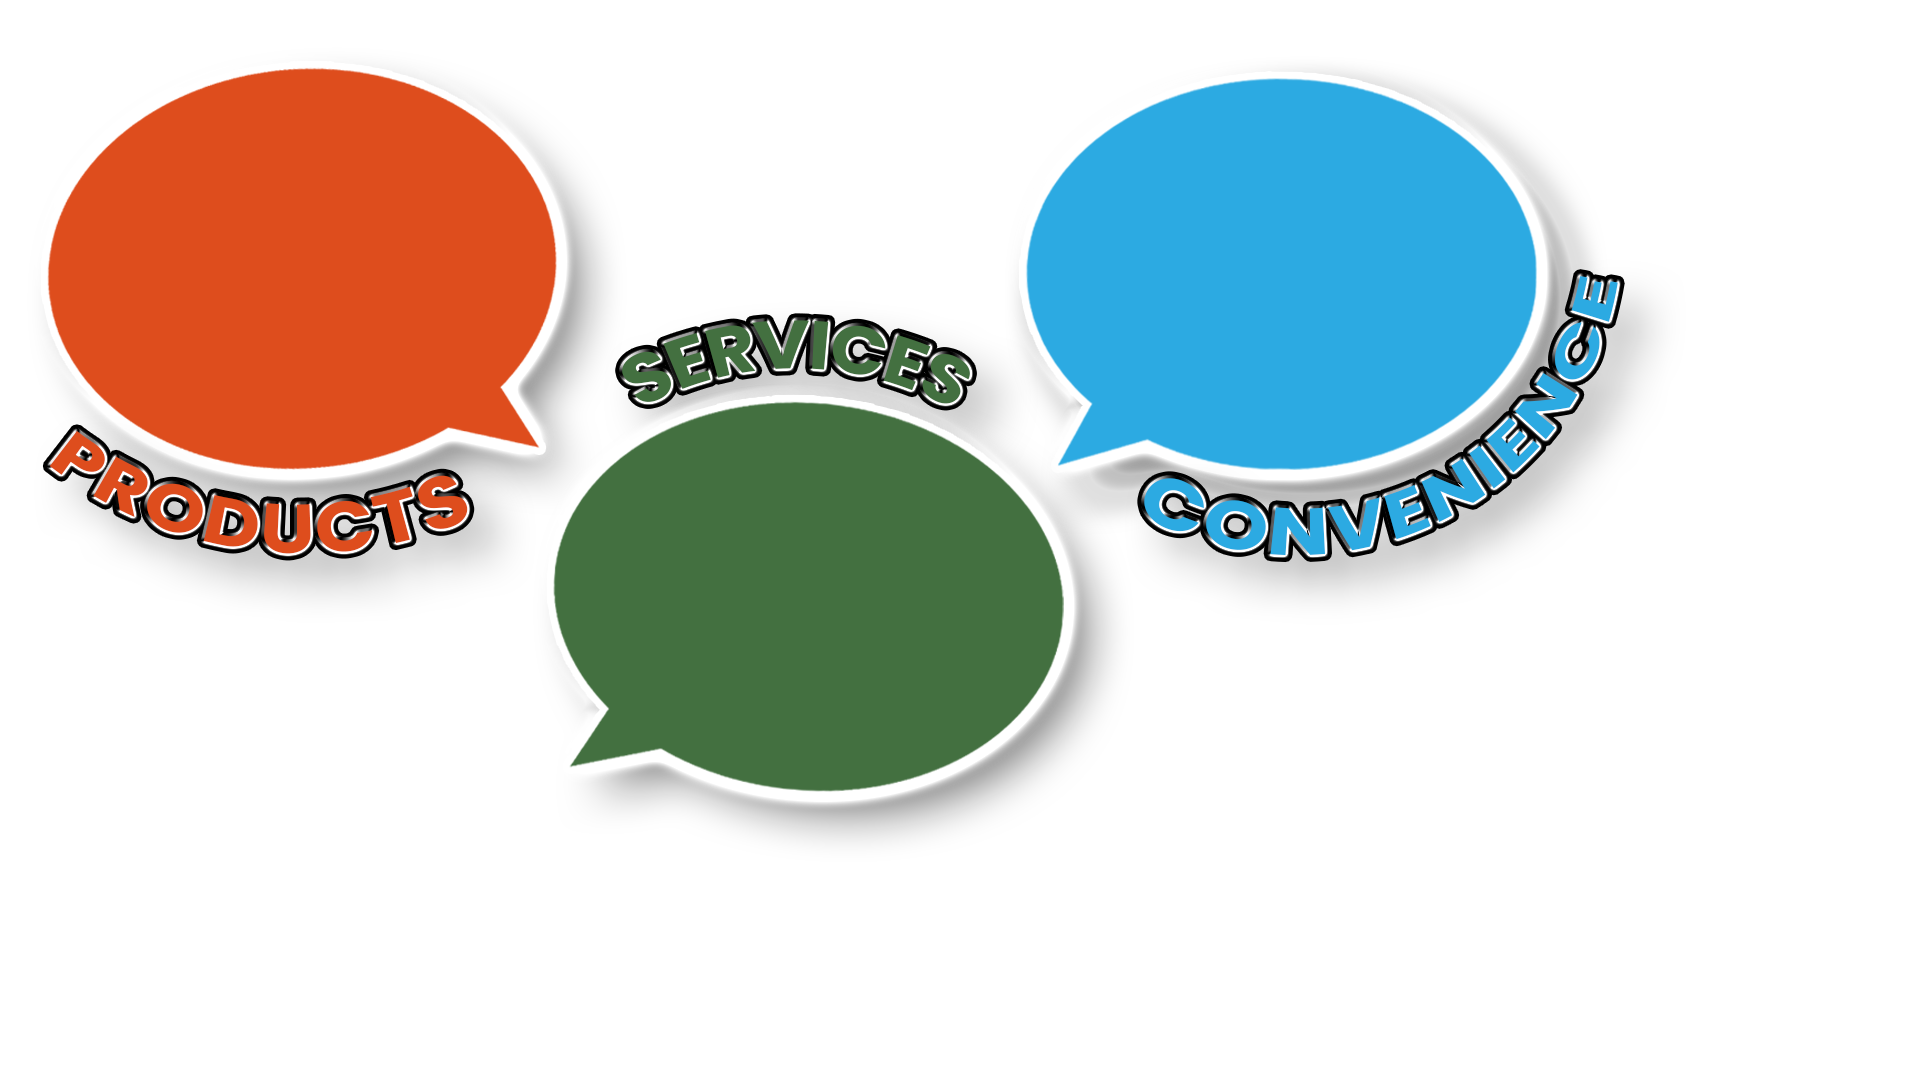
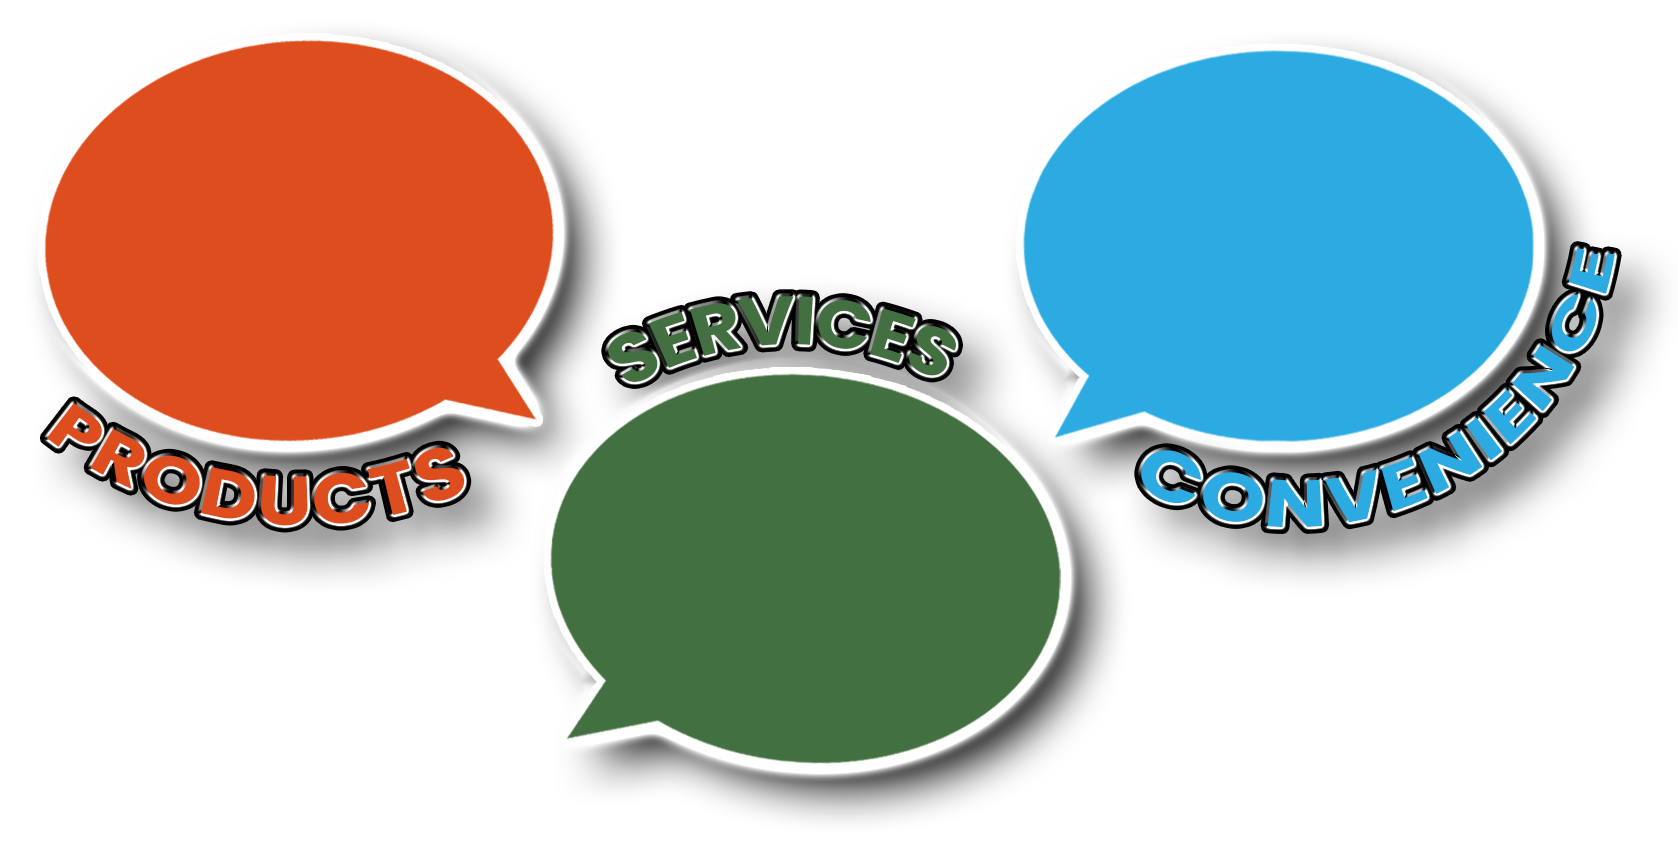
adjusted the bubble textfields in home_main.php

diff --git a/pages/home/style_h.css b/pages/home/style_h.css
@@ -221,14 +221,14 @@
 }
 #box1{
   margin-left: -4px;
-  margin-top: 120px;
+  margin-top: 123px;
 }
 #box2{
   margin-left: 348px;
   margin-top: 349px;
 }
 #box3{
-  margin-left: 687px;
+  margin-left: 680px;
   margin-top: 123px;
 }
 #box4{
@@ -256,8 +256,8 @@
   font-family: 'Ink Free', sans-serif;
   font-size: 25px;
   color: white;
-  margin-left: -19px;
-  margin-top: 40px;
+  margin-left: -15px;
+  margin-top: 35px;
   transform: scaleX(0.9);
 }
 

diff --git a/home_main.php b/home_main.php
@@ -145,12 +145,12 @@ try {
             
             
             <div class="row">
-                <img src="icons/PRODUCTS_SERVICE_CONVENIENCE_1_PNG.png" style="position: absolute; width: 90%; margin-left: -58px; margin-top: 10px;
+                <img src="icons/PRODUCTS_SERVICE_CONVENIENCE_1_PNG.png" style="position: absolute; width: 78%; margin-left: -58px; margin-top: 30px;
                     filter: drop-shadow(0px 20px 50px rgba(20, 20, 20, 20));">
 
                 <img src="icons/ICON_PRODUCTS.png" style="position: absolute; width: 10%; margin-left: 300px; margin-top: 30px;
                     filter: drop-shadow(0px 7px 15px rgba(20, 20, 20, 20));">
-                <img src="icons/ICON_CONVENIENCE.png" style="position: absolute; width: 9%; margin-left: 965px; margin-top: 50px;
+                <img src="icons/ICON_CONVENIENCE.png" style="position: absolute; width: 9%; margin-left: 960px; margin-top: 55px;
                     filter: drop-shadow(0px 7px 15px rgba(20, 20, 20, 20)); transform: rotate(5deg);">
                 <img src="icons/ICON_SERVICES.png" style="position: absolute; width: 10%; margin-left: 650px; margin-top: 395px;
                     filter: drop-shadow(0px 7px 15px rgba(20, 20, 20, 20)); transform: rotate(0deg);">
